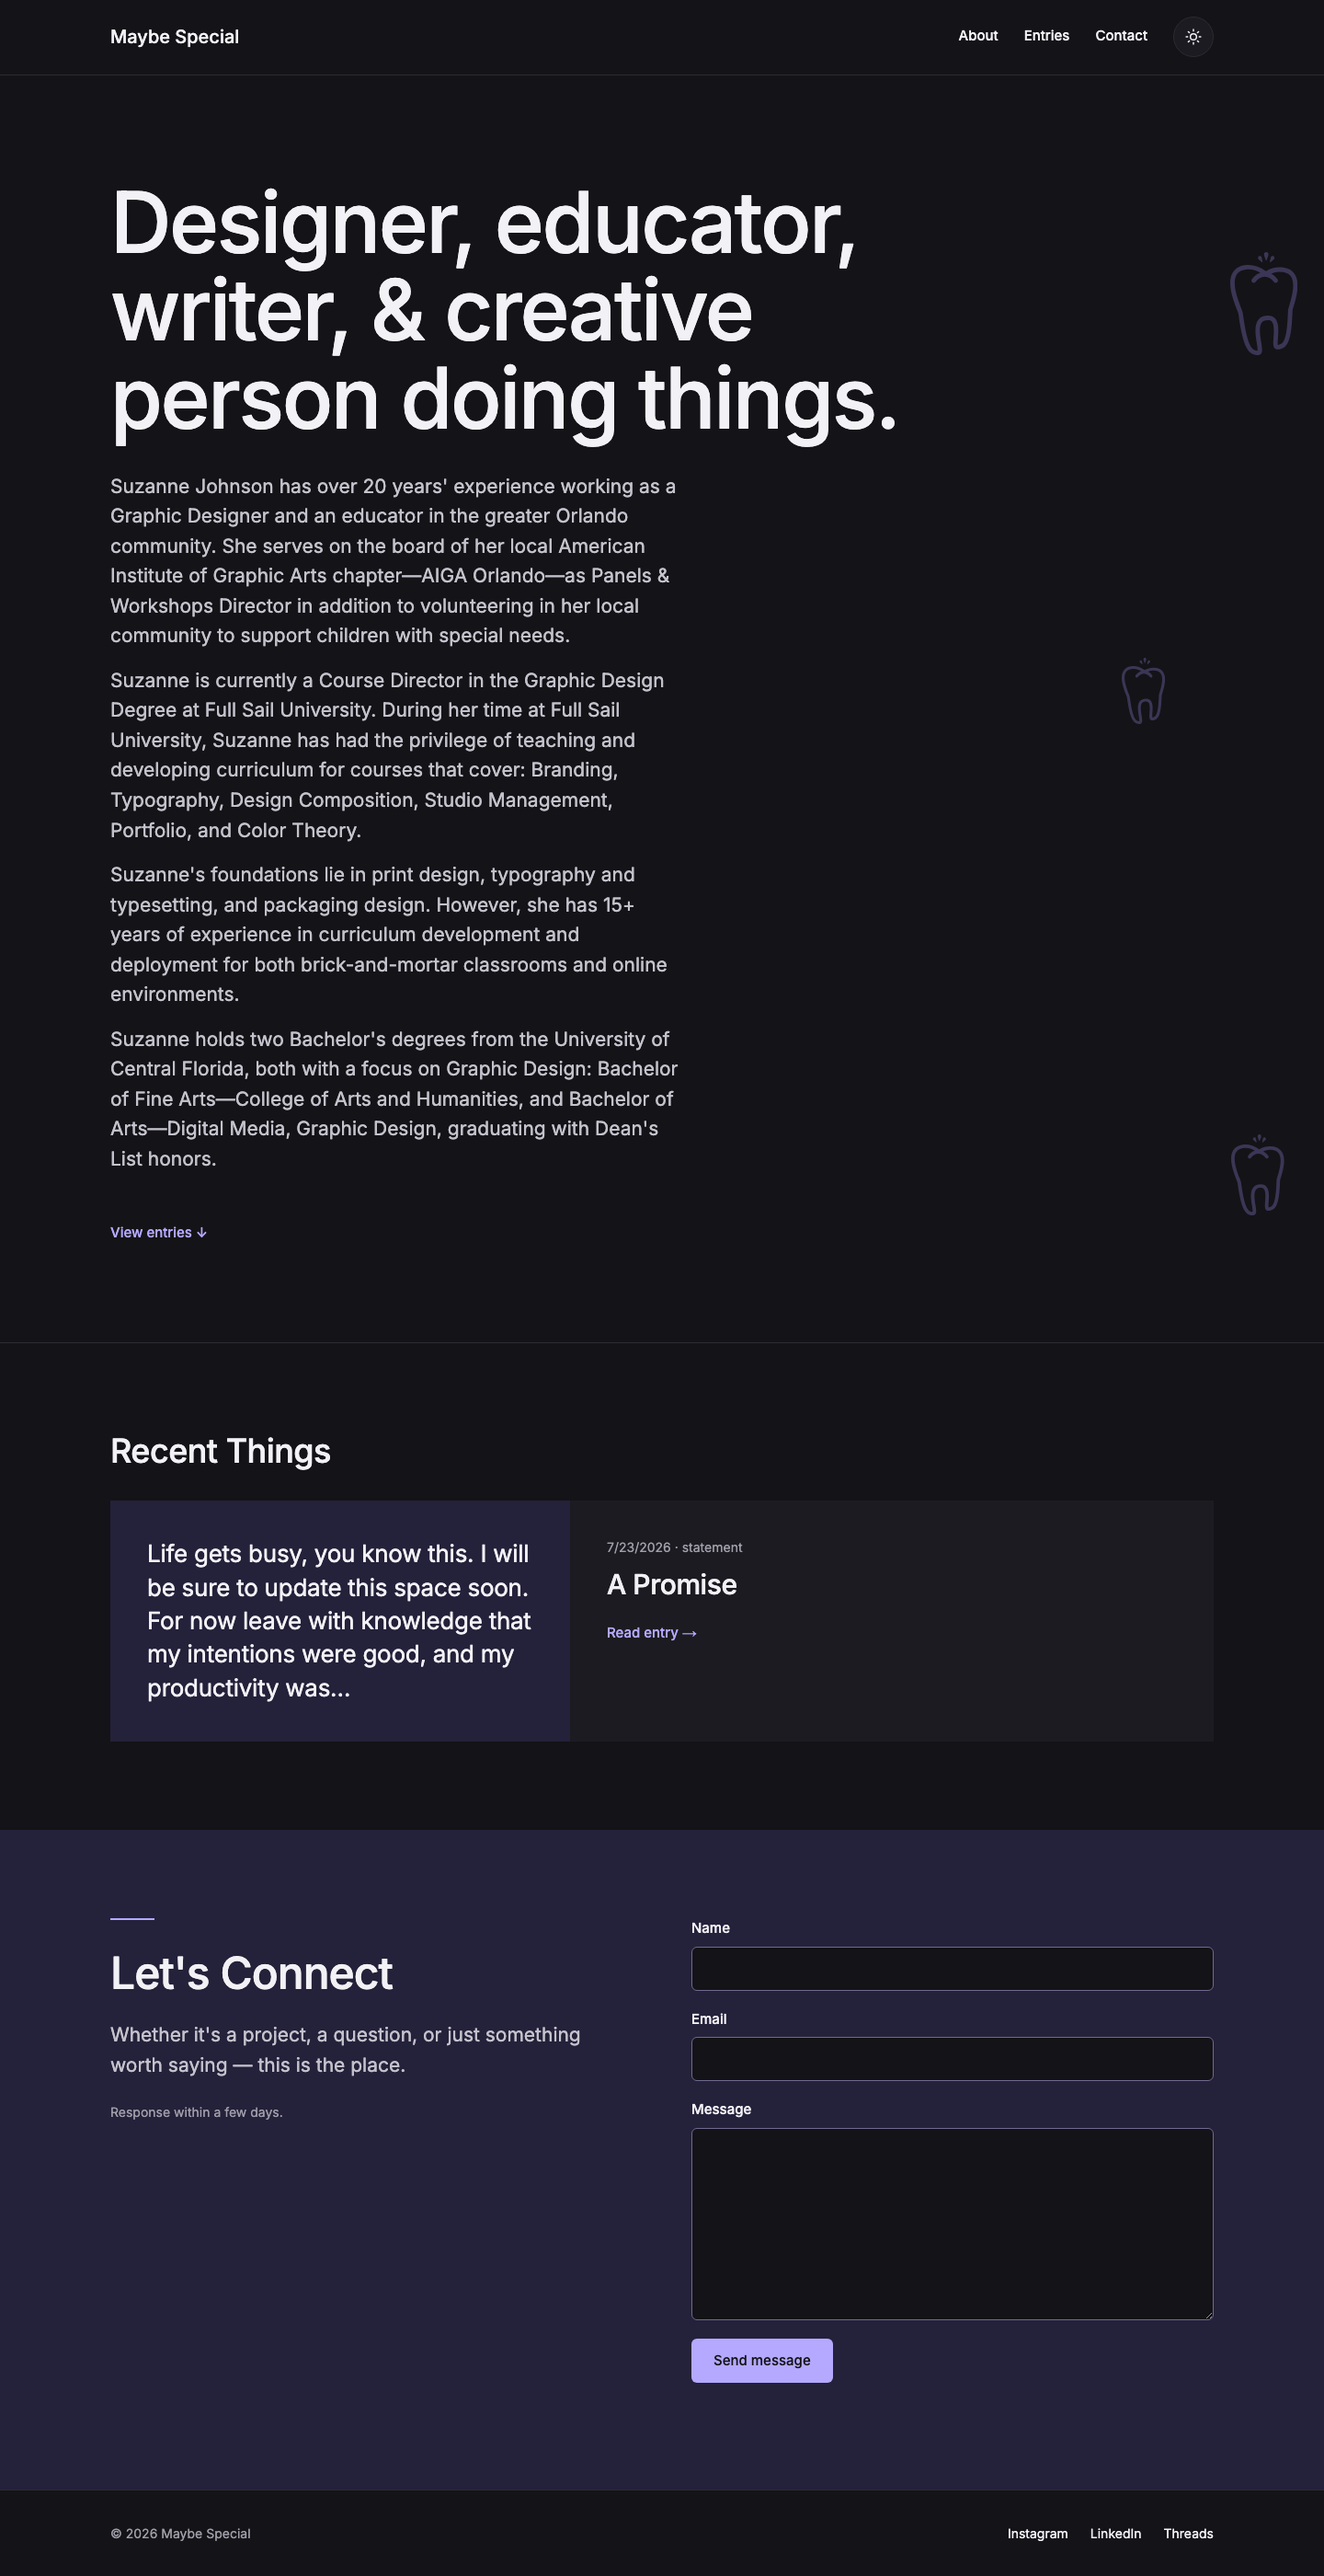
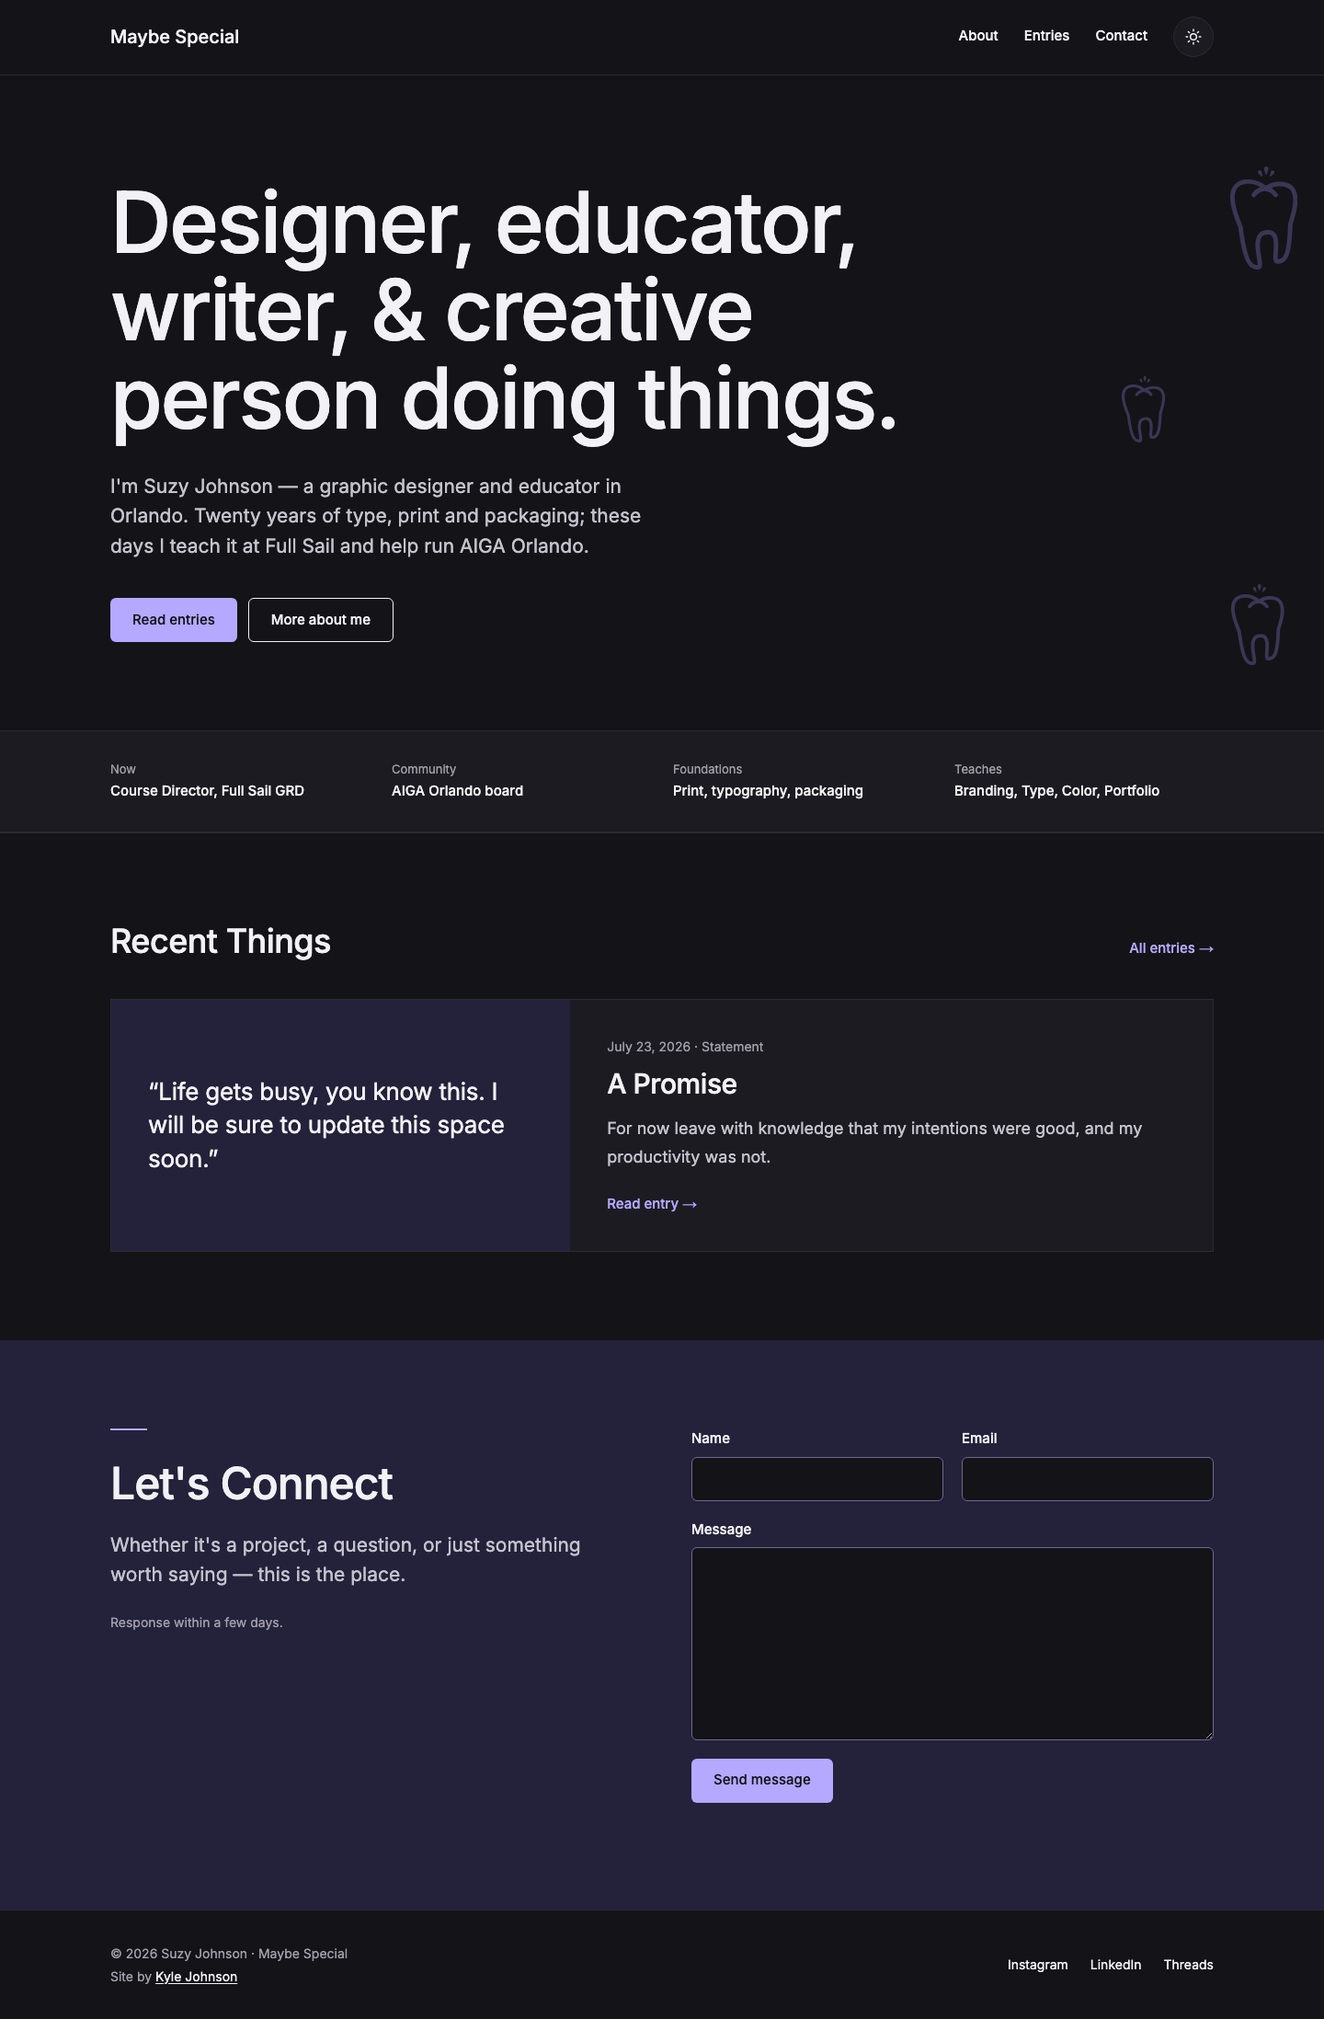
docs: update before/after results for the finished refresh
Remeasured on the live site after the Refresh layout, Suzy's published
content and the footer credit deployed (0f9c02f), same method as the
baseline. Scores unchanged; adds LCP/CLS per page, live error and
content-match checks, and About screenshots.

diff --git a/quality/after.md b/quality/after.md
@@ -1,7 +1,7 @@
 # Quality: before and after the refresh
 
 **Before:** measured November 16, 2026, on the build deployed at commit `bea7f44` (see [baseline.md](baseline.md)).
-**After:** measured November 17, 2026, on the live site, maybespecial.com, after the refresh deployed (commit `d6d9bd5`).
+**After:** measured November 17, 2026, on the live site, maybespecial.com, with the finished refresh and Suzy's published content (deploy commit `0f9c02f`).
 
 Both use the same method: Lighthouse 12.6.0, mobile (default settings), median of 3 runs per page, and axe-core (WCAG 2.2 AA) in light and dark at phone and desktop sizes.
 
@@ -26,28 +26,38 @@ Both use the same method: Lighthouse 12.6.0, mobile (default settings), median o
 | `/entry/a-promise` | Best Practices | 100 | 100 | Nov 16 / Nov 17, 2026 |
 | `/entry/a-promise` | SEO | 90 | 100 | Nov 16 / Nov 17, 2026 |
 
+### Load speed and stability (mobile, median)
+
+| Route | Largest Contentful Paint | Layout shift (CLS) |
+| --- | --- | --- |
+| `/` | 2.34 s → 1.53 s | 0.103 → 0 |
+| `/about` | 2.49 s → 2.92 s | 0.073 → 0 |
+| `/entries` | 2.35 s → 1.53 s | 0.003 → 0 |
+| `/entry/a-promise` | 2.34 s → 1.51 s | 0 → 0 |
+
 ### Beyond the scores
 
 | Measure | Before | After |
 | --- | --- | --- |
 | Pages that load from a direct link | 1 of 4 (`/about`, `/entries` and entries returned **404**) | 4 of 4 (HTTP 200) |
 | axe violations (all pages, both themes, phone and desktop) | 17 elements: 16 color-contrast, 1 link-in-text-block | 0 |
-| Content in the HTML before JavaScript (what crawlers and link previews read) | Home: 1 word, other pages: GitHub's 404 page | Every page: its full content, title, description, canonical URL and share tags |
+| Content in the HTML before JavaScript (what crawlers and link previews read) | Home: 1 word; other pages: GitHub's 404 page | Every page: its full content, title, description, canonical URL and share tags, matching exactly what visitors see |
 | Meta descriptions, Open Graph tags, sitemap.xml, robots.txt | None | All pages, generated on every build |
-| Layout shift (CLS) on `/` | 0.103 | 0 |
-| Largest Contentful Paint on `/` | 2.34 s | 1.51 s |
+| Console or hydration errors (live, 8 page loads) | — | 0 |
 | Dark theme | None | Follows the system setting, with a saved toggle |
-| Quality checks | None | Every push: lint, contrast, schema, browser and axe tests on every page, Lighthouse 95+ (deploys only when all pass) |
+| Quality checks | None | Every push: lint, contrast, schema, browser and axe tests on every page, Lighthouse 95+; deploys only when all pass |
 
 ### Notes
 
 - **Before, inner pages were measured locally.** Every page but `/` returned 404 on the live site, so the baseline served the exact deployed files locally to measure them; the live `/` matched that method within run-to-run noise. After, every page is measured live.
-- **About's performance meets the 95 target but is a point under its old 96.** Its largest element is the portrait, which loads from Sanity's image CDN; the three runs scored 94, 95 and 95. With Lighthouse 13 (used by Lighthouse CI) it scored 96 locally, and it passes CI's 95 gate.
-- **Content is Suzy's as published on November 17, 2026.** Her drafts in Sanity (the bios moved between Home and About, and "Hi, I'm Suzy.") weren't published yet when this was measured.
+- **About's performance meets the 95 target but is a point under its old 96.** Its largest element is the portrait, which loads from Sanity's image CDN; all three runs scored 95. With Lighthouse 13 (used by Lighthouse CI) it scored 96 locally, and it passes CI's 95 gate.
+- **Content is as published on November 17, 2026:** the Refresh layout, the short first-person intro and facts on Home, and "Hi, I'm Suzy.", the intro, her bio and facts on About.
 
 ## Screenshots
 
-The home page, full length, before and after, in `screenshots/before/` and `screenshots/after/`: desktop (1440 px) and phone (390 px), light and dark. Before has no dark theme, so its light and dark shots match.
+Full-length, desktop (1440 px) and phone (390 px), light and dark.
 
-- `home-light-desktop.png`, `home-dark-desktop.png`
-- `home-light-phone.png`, `home-dark-phone.png`
+- `screenshots/before/`: the home page before. The site had no dark theme, so its light and dark shots match.
+- `screenshots/after/`: the home page and About page after.
+
+Files: `home-{light,dark}-{desktop,phone}.png`, and in `after/` also `about-{light,dark}-{desktop,phone}.png`.
